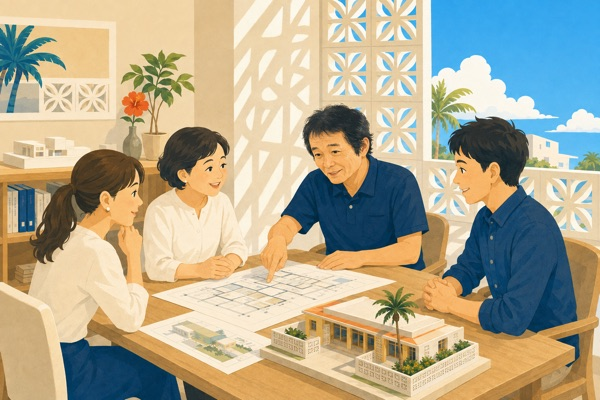
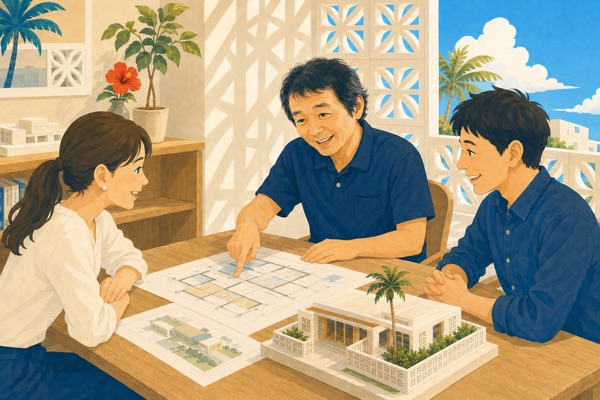
Feature smiling architect illustration, emphasize licensed office, fix desktop overlaps
Claude-Session: https://claude.ai/code/session_01AjLNj4AcuzCs1gsa4KqjQJ

diff --git a/index.html b/index.html
@@ -3,7 +3,7 @@
 <head>
 <meta charset="UTF-8">
 <meta name="viewport" content="width=device-width, initial-scale=1.0">
-<title>タクト設計｜那覇市の一級建築士事務所（保育園・こども園・住宅の設計）</title>
+<title>一級建築士事務所タクト設計｜沖縄・那覇市（保育園・こども園・住宅の設計）</title>
 <meta name="description" content="沖縄県那覇市の一級建築士事務所タクト設計。保育園・こども園の設計実績14件、住宅・店舗・公共施設まで設計実績23件以上。1984年から沖縄の建築実務に携わる一級建築士が、設計から工事監理まで一貫して対応します。初回相談無料。">
 <meta name="theme-color" content="#1E3E5F">
 
@@ -18,7 +18,7 @@
 
 <!-- OGP -->
 <meta property="og:type" content="website">
-<meta property="og:title" content="タクト設計｜那覇市の一級建築士事務所（保育園・こども園・住宅の設計）">
+<meta property="og:title" content="一級建築士事務所タクト設計｜沖縄・那覇市（保育園・こども園・住宅の設計）">
 <meta property="og:description" content="保育園・こども園14件、住宅・店舗・公共施設まで設計実績23件以上。1984年から沖縄の建築実務に携わる一級建築士が設計から工事監理まで一貫対応。初回相談無料。">
 <meta property="og:url" content="https://takt-sekkei.com/">
 <meta property="og:image" content="https://takt-sekkei.com/images/projects/takt-design-office/01-w1600.jpg">
@@ -223,17 +223,6 @@
     border-radius: var(--radius);
     box-shadow: var(--shadow-soft);
   }
-  .section-art::after {
-    content: '';
-    position: absolute;
-    inset: auto -0.9rem -0.9rem auto;
-    width: 46%; height: 46%;
-    background: var(--hana);
-    background-size: 42px 42px;
-    border-radius: var(--radius-sm);
-    z-index: -1;
-    opacity: 0.7;
-  }
 
   /* 事務所紹介の横長バナー */
   .about-banner {
@@ -313,7 +302,7 @@
   .brand-mark { width: 38px; height: 38px; flex-shrink: 0; }
   .brand-text { display: flex; flex-direction: column; line-height: 1.25; }
   .brand-name { font-family: var(--font-display); font-size: 1.28rem; font-weight: 700; letter-spacing: 0.1em; }
-  .brand-sub { font-size: 0.7rem; letter-spacing: 0.08em; color: var(--ink-soft); }
+  .brand-sub { font-size: 0.74rem; font-weight: 700; letter-spacing: 0.12em; color: var(--sora); }
 
   .site-nav { margin-left: auto; flex-shrink: 0; }
   .site-nav ul { display: flex; gap: 0.2rem; list-style: none; }
@@ -378,6 +367,7 @@
     align-items: center;
   }
   .hero-copy { animation: rise 0.8s ease both; }
+  .hero-badges { display: flex; flex-wrap: wrap; gap: 0.6rem; margin-bottom: 1.4rem; }
   .hero-badge {
     display: inline-flex; align-items: center; gap: 0.5rem;
     padding: 0.3rem 0.9rem 0.3rem 0.5rem;
@@ -385,7 +375,11 @@
     background: var(--white);
     border: 1px solid var(--line);
     font-size: 0.85rem; font-weight: 700; color: var(--ai);
-    margin-bottom: 1.4rem;
+  }
+  .hero-badge--office {
+    padding: 0.35rem 1rem;
+    background: var(--ai); border-color: var(--ai); color: #fff;
+    font-size: 0.9rem; letter-spacing: 0.06em;
   }
   .hero-badge i {
     display: inline-block; width: 22px; height: 22px; border-radius: 50%;
@@ -410,7 +404,7 @@
 
   .hero-media {
     position: relative;
-    padding: 1.5rem 0 2.5rem 2.5rem;
+    padding: 1.5rem 0 0 2.5rem;
     animation: rise 0.9s 0.15s ease both;
   }
   .hana-screen {
@@ -423,36 +417,33 @@
     mask-image: linear-gradient(200deg, #000 30%, transparent 85%);
     pointer-events: none;
   }
-  .hero-photo-main {
+  .hero-person {
     position: relative;
     z-index: 1;
     border-radius: var(--radius);
     overflow: hidden;
     box-shadow: var(--shadow);
-    margin-left: 6%;
+    background: var(--ai-tint);
   }
-  .hero-photo-main img { width: 100%; aspect-ratio: 4 / 3; object-fit: cover; }
-  .hero-photo-sub {
-    position: absolute;
-    z-index: 2;
-    left: 0; bottom: 0;
-    width: 44%;
+  .hero-person img { display: block; width: 100%; aspect-ratio: 4 / 5; object-fit: cover; object-position: center top; }
+  .hero-person-card {
+    position: relative;
+    z-index: 1;
+    display: grid;
+    grid-template-columns: auto 1fr;
+    column-gap: 0.9rem;
+    align-items: baseline;
+    margin-top: 0.9rem;
+    padding: 0.85rem 1.2rem;
+    background: var(--white);
+    border: 1px solid var(--line);
+    border-left: 4px solid var(--deigo);
     border-radius: var(--radius-sm);
-    overflow: hidden;
-    border: 5px solid var(--white);
-    box-shadow: var(--shadow);
+    box-shadow: var(--shadow-soft);
   }
-  .hero-photo-sub img { width: 100%; aspect-ratio: 4 / 3; object-fit: cover; }
-  .hero-photo-label {
-    position: absolute;
-    left: 0.8rem; bottom: 0.8rem;
-    padding: 0.2rem 0.7rem;
-    font-size: 0.78rem; font-weight: 700;
-    background: rgba(255,255,255,0.92);
-    color: var(--ai);
-    border-radius: 999px;
-  }
-  .hero-photo-main .hero-photo-label { left: 1rem; bottom: 1rem; }
+  .hero-person-role { font-size: 0.8rem; font-weight: 700; color: var(--deigo-deep); letter-spacing: 0.08em; }
+  .hero-person-name { font-family: var(--font-display); font-size: 1.35rem; color: var(--ai); letter-spacing: 0.08em; }
+  .hero-person-note { grid-column: 1 / -1; font-size: 0.85rem; color: var(--ink-soft); margin-top: 0.2rem; }
 
   @keyframes rise { from { opacity: 0; transform: translateY(18px); } to { opacity: 1; transform: none; } }
 
@@ -996,7 +987,6 @@
   }
   @media (max-width: 1480px) {
     .site-nav a { padding: 0.5rem 0.55rem; font-size: 0.9rem; }
-    .brand-sub { display: none; }
   }
 
   @media (max-width: 1100px) {
@@ -1048,15 +1038,12 @@
     :root { --header-h: 64px; }
     .brand-mark { width: 32px; height: 32px; }
     .brand-name { font-size: 1.12rem; }
-    .brand-sub { font-size: 0.64rem; }
+    .brand-sub { font-size: 0.62rem; letter-spacing: 0.08em; }
     .header-cta { display: none; }
     .hero h1 { font-size: clamp(1.75rem, 8vw, 2.2rem); }
     .hero-actions .btn { width: 100%; }
-    .hero-media { padding: 0; display: grid; gap: 0.8rem; }
+    .hero-media { padding: 0; }
     .hana-screen { display: none; }
-    .hero-photo-main { margin-left: 0; }
-    .hero-photo-sub { position: relative; width: 58%; justify-self: end; border-width: 4px; }
-    .section-art::after { display: none; }
     .stats-grid { grid-template-columns: 1fr 1fr; }
     .stat { padding: 1.2rem 0.6rem; }
     .stat:nth-child(3) { border-left: none; }
@@ -1091,8 +1078,8 @@
     <a class="brand" href="#top" aria-label="タクト設計 トップへ">
       <svg class="brand-mark" viewBox="0 0 32 32" aria-hidden="true"><rect width="32" height="32" rx="7" fill="#1E3E5F"/><circle cx="16" cy="10" r="5" fill="#fff"/><circle cx="22" cy="16" r="5" fill="#fff"/><circle cx="16" cy="22" r="5" fill="#fff"/><circle cx="10" cy="16" r="5" fill="#fff"/><circle cx="16" cy="16" r="2.6" fill="#1E3E5F"/></svg>
       <span class="brand-text">
+        <span class="brand-sub">一級建築士事務所</span>
         <span class="brand-name">タクト設計</span>
-        <span class="brand-sub">一級建築士事務所｜沖縄県那覇市</span>
       </span>
     </a>
     <button type="button" class="nav-toggle" id="navToggle" aria-controls="siteNav" aria-expanded="false" aria-label="メニューを開く">
@@ -1124,7 +1111,10 @@
 <section class="hero" id="top">
   <div class="container hero-grid">
     <div class="hero-copy">
-      <span class="hero-badge"><i>無</i>初回相談無料・沖縄県内全域対応</span>
+      <div class="hero-badges">
+        <span class="hero-badge hero-badge--office">沖縄県知事登録 一級建築士事務所</span>
+        <span class="hero-badge"><i>無</i>初回相談無料・沖縄県内全域対応</span>
+      </div>
       <h1><span class="h1-line">沖縄の光と風を読み、</span><span class="h1-line">長く愛される建築を。</span></h1>
       <p class="hero-desc">保育園・こども園から住宅、公共施設まで。1984年から沖縄の建築実務に携わる一級建築士が、設計から工事監理まで一貫して伴走します。</p>
       <div class="hero-actions">
@@ -1138,13 +1128,13 @@
     </div>
     <div class="hero-media">
       <div class="hana-screen" aria-hidden="true"></div>
-      <div class="hero-photo-main">
-        <img src="images/projects/shiinomi-nursery-main/01-w1600.jpg" srcset="images/projects/shiinomi-nursery-main/01-w800.jpg 800w, images/projects/shiinomi-nursery-main/01-w1600.jpg 1600w" sizes="(max-width: 960px) 100vw, 560px" alt="しいの実保育園（本園）の外観。黄色い外壁と青空" fetchpriority="high" width="1600" height="1200">
-        <span class="hero-photo-label">しいの実保育園（宜野湾市）</span>
+      <div class="hero-person">
+        <img src="images/illust/architect-864.jpg" srcset="images/illust/architect-480.jpg 480w, images/illust/architect-864.jpg 864w" sizes="(max-width: 960px) 100vw, 560px" alt="代表・一級建築士 羽地敏博のイラスト。花ブロックの前で図面と模型を手に笑顔で立つ" fetchpriority="high" width="864" height="1080">
       </div>
-      <div class="hero-photo-sub">
-        <img src="images/projects/tsukishiro-residence/03-w800.jpg" alt="つきしろの住宅の外観" loading="lazy" width="800" height="600">
-        <span class="hero-photo-label">つきしろの住宅</span>
+      <div class="hero-person-card">
+        <span class="hero-person-role">代表・一級建築士</span>
+        <strong class="hero-person-name">羽地 敏博</strong>
+        <span class="hero-person-note">1984年から沖縄の建築実務に従事。設計から工事監理までご自身が担当します。</span>
       </div>
     </div>
   </div>
